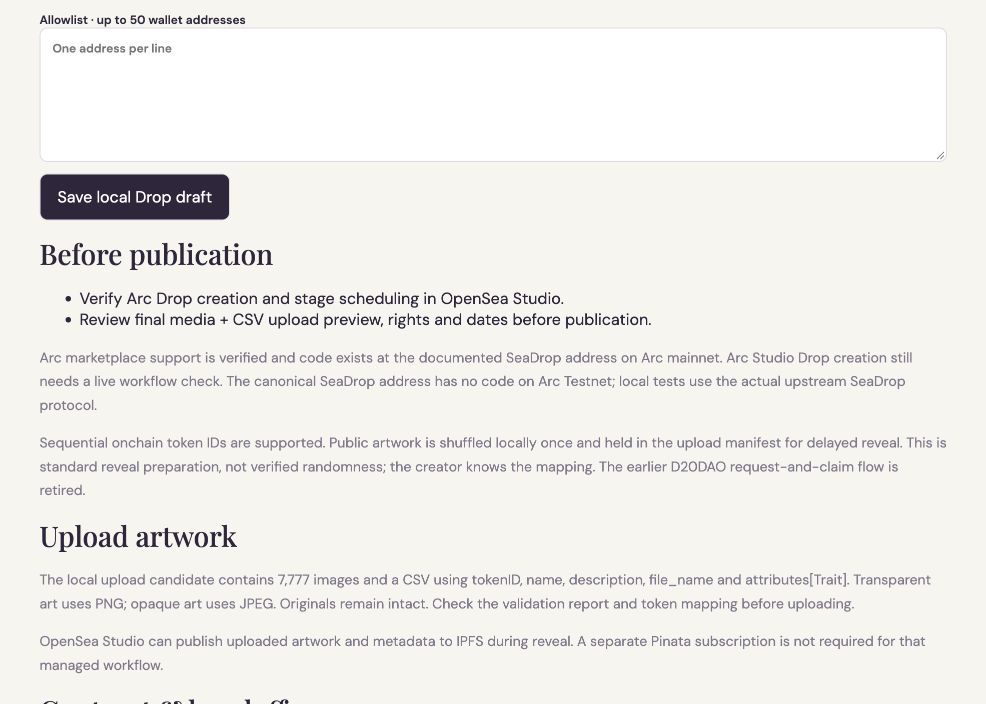
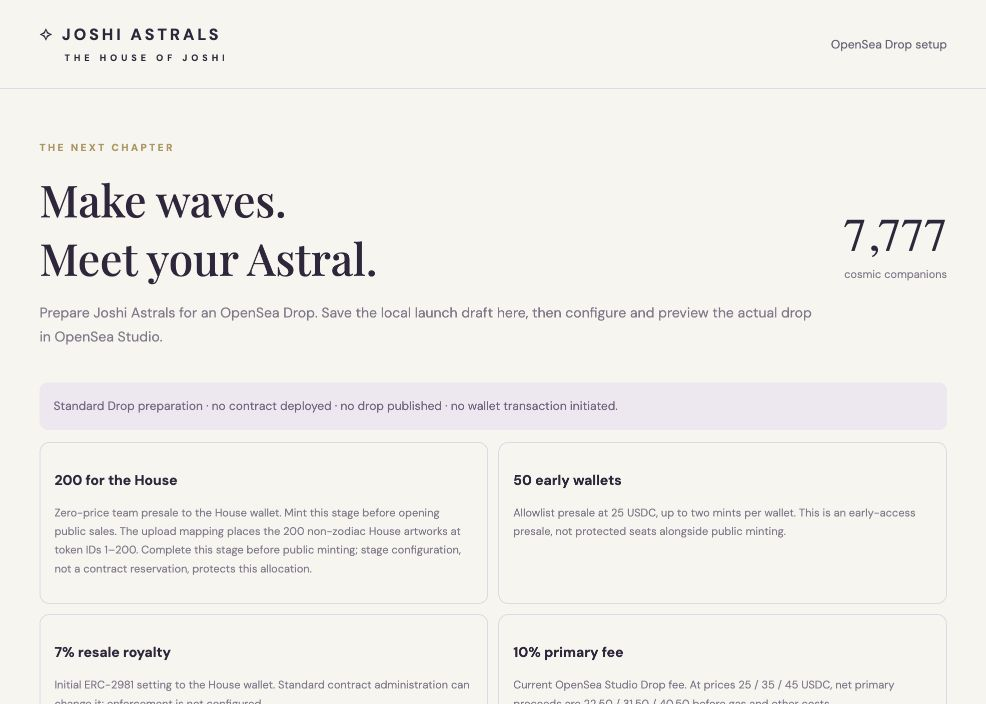
Finalize validated full-color OpenSea upload bundle [skip ci]

diff --git a/cosmic-kin-studio/public/opensea-drop.html b/cosmic-kin-studio/public/opensea-drop.html
@@ -1,1 +1,1 @@
-<!doctype html><html lang="en"><head><meta charset="utf-8"><meta name="viewport" content="width=device-width,initial-scale=1"><title>Joshi Astrals · OpenSea Drop</title><link rel="stylesheet" href="/style.css"></head><body><header><a class="brand" href="/admin">✧ JOSHI ASTRALS <small>THE HOUSE OF JOSHI</small></a><span class="network">OpenSea Drop setup</span></header><main style="max-width:1000px;margin:auto"><section class="intro"><div><p class="eyebrow">THE NEXT CHAPTER</p><h1>Make waves.<br>Meet your Astral.</h1><p>Prepare Joshi Astrals for an OpenSea Drop. Save the local launch draft here, then configure and preview the actual drop in OpenSea Studio.</p></div><div class="stat"><b>7,777</b><span>cosmic companions</span></div></section><p class="notice">Standard Drop preparation · no contract deployed · no drop published · no wallet transaction initiated.</p><div class="family-grid"><article><h3>200 for the House</h3><p>Zero-price team presale to the House wallet. Mint this stage before opening public sales. The upload mapping places the 200 non-zodiac House artworks at token IDs 1–200. Complete this stage before public minting; stage configuration, not a contract reservation, protects this allocation.</p></article><article><h3>50 early wallets</h3><p>Allowlist presale at 25 USDC, up to two mints per wallet. This is an early-access presale, not protected seats alongside public minting.</p></article><article><h3>7% resale royalty</h3><p>Initial ERC-2981 setting to the House wallet. Standard contract administration can change it; enforcement is not configured.</p></article><article><h3>10% primary fee</h3><p>Current OpenSea Studio Drop fee. At prices 25 / 35 / 45 USDC, net primary proceeds are 22.50 / 31.50 / 40.50 before gas and other costs.</p></article></div><h2>Launch plan</h2><table><thead><tr><th>Public phase</th><th>Target allocation</th><th>Price · USDC</th></tr></thead><tbody><tr><td>First Light</td><td>777</td><td>25</td></tr><tr><td>Rising Orbit</td><td>2,000</td><td>35</td></tr><tr><td>Full Constellation</td><td>4,800</td><td>45</td></tr></tbody></table><p class="sub">These are planned quantities. Standard SeaDrop has one public-drop configuration at a time; the previous automatic phase caps and progression are not implemented here. Confirm scheduling and limits in Studio before launch.</p><h2>Local settings</h2><form id="dropForm"><label>Official OpenSea drop URL<input id="dropURL" placeholder="Set after OpenSea creates the new collection"></label><label>Allowlist · up to 50 wallet addresses<textarea id="allowlist" rows="7" placeholder="One address per line"></textarea></label><button class="primary" type="submit">Save local Drop draft</button><p id="saveStatus" role="status"></p></form><h2>Before publication</h2><ul id="dropBlockers"></ul><p>Arc marketplace support is verified and code exists at the documented SeaDrop address on Arc mainnet. Arc Studio Drop creation still needs a live workflow check. The canonical SeaDrop address has no code on Arc Testnet; local tests use the actual upstream SeaDrop protocol.</p><p>Sequential onchain token IDs are supported. Public artwork is shuffled locally once and held in the upload manifest for delayed reveal. This is standard reveal preparation, not verified randomness; the creator knows the mapping. The earlier D20DAO request-and-claim flow is retired.</p><h2>Upload artwork</h2><p>The local upload candidate contains 7,777 images and a CSV using tokenID, name, description, file_name and attributes[Trait]. Transparent art uses PNG with 256-color optimization and exact alpha; opaque art uses JPEG. Originals remain intact. Check the validation report and token mapping before uploading.</p><p>OpenSea Studio can publish uploaded artwork and metadata to IPFS during reveal. A separate Pinata subscription is not required for that managed workflow.</p><h2>Contract &amp; handoff</h2><p>The Drop contract inherits OpenSea's original ERC721SeaDrop minting functions unchanged. Initial name: Joshi Astrals · symbol: ASTRAL · supply: 7,777 · royalty: 7%. The upstream owner can change supply, metadata, royalties and drop settings; these are not immutable guarantees.</p><p><a href="/JoshiAstralsSeaDrop.sol" download>SeaDrop Solidity source</a> · <a href="/seadrop-build.json">Build provenance</a> · <a href="/opensea-drop-plan.json">Saved plan</a></p><p><a href="https://opensea.io/studio" target="_blank" rel="noopener" class="primary">Open OpenSea Studio ↗</a> · <a href="/admin">Return to admin</a></p><p class="sub">Create a Drop, select Arc if available, connect the House wallet, review deployment, set payout and creator earnings, upload media + CSV, configure stages, preview, then publish. Wallet transactions and final publication remain yours to confirm.</p><p><a href="https://docs.opensea.io/docs/seadrop">SeaDrop documentation</a> · <a href="https://support.opensea.io/en/articles/8867060-preparing-metadata-for-your-drop">OpenSea upload and reveal guide</a> · <a href="https://support.opensea.io/en/articles/8867061-drops-faq">Drop fees and team allocation</a></p></main><script type="module" src="/opensea-drop.js"></script></body></html>
+<!doctype html><html lang="en"><head><meta charset="utf-8"><meta name="viewport" content="width=device-width,initial-scale=1"><title>Joshi Astrals · OpenSea Drop</title><link rel="stylesheet" href="/style.css"></head><body><header><a class="brand" href="/admin">✧ JOSHI ASTRALS <small>THE HOUSE OF JOSHI</small></a><span class="network">OpenSea Drop setup</span></header><main style="max-width:1000px;margin:auto"><section class="intro"><div><p class="eyebrow">THE NEXT CHAPTER</p><h1>Make waves.<br>Meet your Astral.</h1><p>Prepare Joshi Astrals for an OpenSea Drop. Save the local launch draft here, then configure and preview the actual drop in OpenSea Studio.</p></div><div class="stat"><b>7,777</b><span>cosmic companions</span></div></section><p class="notice">Standard Drop preparation · no contract deployed · no drop published · no wallet transaction initiated.</p><div class="family-grid"><article><h3>200 for the House</h3><p>Zero-price team presale to the House wallet. Mint this stage before opening public sales. The upload mapping places the 200 non-zodiac House artworks at token IDs 1–200. Complete this stage before public minting; stage configuration, not a contract reservation, protects this allocation.</p></article><article><h3>50 early wallets</h3><p>Allowlist presale at 25 USDC, up to two mints per wallet. This is an early-access presale, not protected seats alongside public minting.</p></article><article><h3>7% resale royalty</h3><p>Initial ERC-2981 setting to the House wallet. Standard contract administration can change it; enforcement is not configured.</p></article><article><h3>10% primary fee</h3><p>Current OpenSea Studio Drop fee. At prices 25 / 35 / 45 USDC, net primary proceeds are 22.50 / 31.50 / 40.50 before gas and other costs.</p></article></div><h2>Launch plan</h2><table><thead><tr><th>Public phase</th><th>Target allocation</th><th>Price · USDC</th></tr></thead><tbody><tr><td>First Light</td><td>777</td><td>25</td></tr><tr><td>Rising Orbit</td><td>2,000</td><td>35</td></tr><tr><td>Full Constellation</td><td>4,800</td><td>45</td></tr></tbody></table><p class="sub">These are planned quantities. Standard SeaDrop has one public-drop configuration at a time; the previous automatic phase caps and progression are not implemented here. Confirm scheduling and limits in Studio before launch.</p><h2>Local settings</h2><form id="dropForm"><label>Official OpenSea drop URL<input id="dropURL" placeholder="Set after OpenSea creates the new collection"></label><label>Allowlist · up to 50 wallet addresses<textarea id="allowlist" rows="7" placeholder="One address per line"></textarea></label><button class="primary" type="submit">Save local Drop draft</button><p id="saveStatus" role="status"></p></form><h2>Before publication</h2><ul id="dropBlockers"></ul><p>Arc marketplace support is verified and code exists at the documented SeaDrop address on Arc mainnet. Arc Studio Drop creation still needs a live workflow check. The canonical SeaDrop address has no code on Arc Testnet; local tests use the actual upstream SeaDrop protocol.</p><p>Sequential onchain token IDs are supported. Public artwork is shuffled locally once and held in the upload manifest for delayed reveal. This is standard reveal preparation, not verified randomness; the creator knows the mapping. The earlier D20DAO request-and-claim flow is retired.</p><h2>Upload artwork</h2><p class="notice">Validated: 7,777 unique images · 640 × 640 · 915.4 MB for media + CSV. <a href="/opensea-upload-summary.json">View verification summary</a></p><p>The local upload candidate contains 7,777 images and a CSV using tokenID, name, description, file_name and attributes[Trait]. Upload images are 640 × 640. Transparent art uses full-color PNG with preserved alpha; opaque art uses JPEG. Larger originals remain available for owner wallpapers and archival use. Originals remain intact. Check the validation report and token mapping before uploading.</p><p>OpenSea Studio can publish uploaded artwork and metadata to IPFS during reveal. A separate Pinata subscription is not required for that managed workflow.</p><h2>Contract &amp; handoff</h2><p>The Drop contract inherits OpenSea's original ERC721SeaDrop minting functions unchanged. Initial name: Joshi Astrals · symbol: ASTRAL · supply: 7,777 · royalty: 7%. The upstream owner can change supply, metadata, royalties and drop settings; these are not immutable guarantees.</p><p><a href="/JoshiAstralsSeaDrop.sol" download>SeaDrop Solidity source</a> · <a href="/seadrop-build.json">Build provenance</a> · <a href="/opensea-drop-plan.json">Saved plan</a></p><p><a href="https://opensea.io/studio" target="_blank" rel="noopener" class="primary">Open OpenSea Studio ↗</a> · <a href="/admin">Return to admin</a></p><p class="sub">Create a Drop, select Arc if available, connect the House wallet, review deployment, set payout and creator earnings, upload media + CSV, configure stages, preview, then publish. Wallet transactions and final publication remain yours to confirm.</p><p><a href="https://docs.opensea.io/docs/seadrop">SeaDrop documentation</a> · <a href="https://support.opensea.io/en/articles/8867060-preparing-metadata-for-your-drop">OpenSea upload and reveal guide</a> · <a href="https://support.opensea.io/en/articles/8867061-drops-faq">Drop fees and team allocation</a></p></main><script type="module" src="/opensea-drop.js"></script></body></html>

diff --git a/cosmic-kin-generator-pack/prepare-opensea.py b/cosmic-kin-generator-pack/prepare-opensea.py
@@ -7,14 +7,13 @@ root=Path(__file__).resolve().parent
 out=root/'opensea-upload';media=out/'media';media.mkdir(parents=True,exist_ok=True)
 manifest=json.loads((root/'manifest-seadrop.json').read_text())
 assert len(manifest)==7777
-# PNG colors quantized to 256; alpha remains exact. Opaque artwork uses JPEG.
+# Transparent PNGs preserve full color and alpha after resize; opaque artwork uses JPEG.
 def prepare(record):
  i=record['token_id'];source_id=record['source_edition_id'];source=root/'images-webp'/f'{source_id}.webp'
  with Image.open(source) as opened:
-  im=opened.convert('RGBA').resize((768,768),Image.Resampling.LANCZOS);transparent=im.getchannel('A').getextrema()[0]<255
+  im=opened.convert('RGBA').resize((640,640),Image.Resampling.LANCZOS);transparent=im.getchannel('A').getextrema()[0]<255
   dst=media/f'{i}.png' if transparent else media/f'{i}.jpg'
-  if transparent:
-   alpha=im.getchannel('A');im=im.convert('RGB').quantize(colors=256,method=Image.Quantize.MEDIANCUT).convert('RGBA');im.putalpha(alpha);im.save(dst,'PNG',optimize=True)
+  if transparent:im.save(dst,'PNG',compress_level=6)
   else:
    im.convert('RGB').save(dst,'JPEG',quality=75,optimize=True,subsampling=0)
  return {'token_id':i,'source_edition_id':source_id,'file_name':dst.name,'transparent':transparent,'source_sha256':hashlib.sha256(source.read_bytes()).hexdigest(),'bytes':dst.stat().st_size}
@@ -32,13 +31,14 @@ per_jpg=(budget-png_bytes)//max(1,len(opaque))
 def fit(r):
  if not r['transparent'] and r['bytes']>per_jpg:
   with Image.open(root/'images-webp'/f"{r['source_edition_id']}.webp") as im:
-   im=im.convert('RGB').resize((768,768),Image.Resampling.LANCZOS)
-   for q in [72,68,64,60,56,52,48,44,40]:
+   im=im.convert('RGB').resize((640,640),Image.Resampling.LANCZOS)
+   for q in [60,45]:
     buf=io.BytesIO();im.save(buf,'JPEG',quality=q,optimize=True,subsampling=0)
     if len(buf.getvalue())<=per_jpg:break
    (media/r['file_name']).write_bytes(buf.getvalue());r['quality']=q;r['bytes']=len(buf.getvalue())
  return r
-with ThreadPoolExecutor(max_workers=6) as pool:records=list(pool.map(fit,records))
+if sum(r['bytes'] for r in records)>budget:
+ with ThreadPoolExecutor(max_workers=6) as pool:records=list(pool.map(fit,records))
 traits=sorted({a['trait_type'] for m in manifest for a in m['attributes']})
 with (out/'joshi-astrals-opensea.csv').open('w',newline='') as f:
  writer=csv.DictWriter(f,fieldnames=['tokenID','name','description','file_name']+[f'attributes[{t}]' for t in traits]);writer.writeheader()
@@ -51,15 +51,15 @@ seen=set()
 for k,r in enumerate(records,1):
  path=media/r['file_name']
  with Image.open(path) as im:
-  im.load();assert im.size==(768,768)
+  im.load();assert im.size==(640,640)
   pixels=im.convert('RGBA');digest=hashlib.sha256(pixels.tobytes()).hexdigest()
   if digest in seen:raise RuntimeError(f"Duplicate decoded artwork: {r['token_id']}")
   seen.add(digest)
   if r['transparent']:
-   with Image.open(root/'images-webp'/f"{r['source_edition_id']}.webp") as src:assert pixels.getchannel('A').tobytes()==src.convert('RGBA').resize((768,768),Image.Resampling.LANCZOS).getchannel('A').tobytes()
+   with Image.open(root/'images-webp'/f"{r['source_edition_id']}.webp") as src:assert pixels.tobytes()==src.convert('RGBA').resize((640,640),Image.Resampling.LANCZOS).tobytes()
  r['sha256']=hashlib.sha256(path.read_bytes()).hexdigest();r['decoded_pixel_sha256']=digest
  if k%1000==0:print(f'Verified {k}/7777',flush=True)
 total=sum(r['bytes'] for r in records)+(out/'joshi-astrals-opensea.csv').stat().st_size
 assert total<1_000_000_000, f'Budget exceeded: {total} bytes'
-report={'status':'validated local upload candidate; not uploaded','count':7777,'unique_decoded_images':len(seen),'total_bytes':total,'transparent_png_count':len(records)-len(opaque),'opaque_jpg_count':len(opaque),'alpha':'exactly preserved after Lanczos resize for all transparent PNGs','dimensions':[768,768],'metadata_schema':'tokenID,name,description,file_name,attributes[Trait]','token_mapping':'House tokens 1–200 mapped to fixed non-zodiac reserve artwork; public 201–7777 locally shuffled once. Not VRF randomness.','records':records}
+report={'status':'validated local upload candidate; not uploaded','count':7777,'unique_decoded_images':len(seen),'total_bytes':total,'transparent_png_count':len(records)-len(opaque),'opaque_jpg_count':len(opaque),'alpha':'exactly preserved after Lanczos resize for all transparent PNGs','dimensions':[640,640],'metadata_schema':'tokenID,name,description,file_name,attributes[Trait]','token_mapping':'House tokens 1–200 mapped to fixed non-zodiac reserve artwork; public 201–7777 locally shuffled once. Not VRF randomness.','records':records}
 (out/'validation.json').write_text(json.dumps(report,indent=2)+'\n');print(json.dumps({k:v for k,v in report.items() if k!='records'},indent=2),flush=True)
